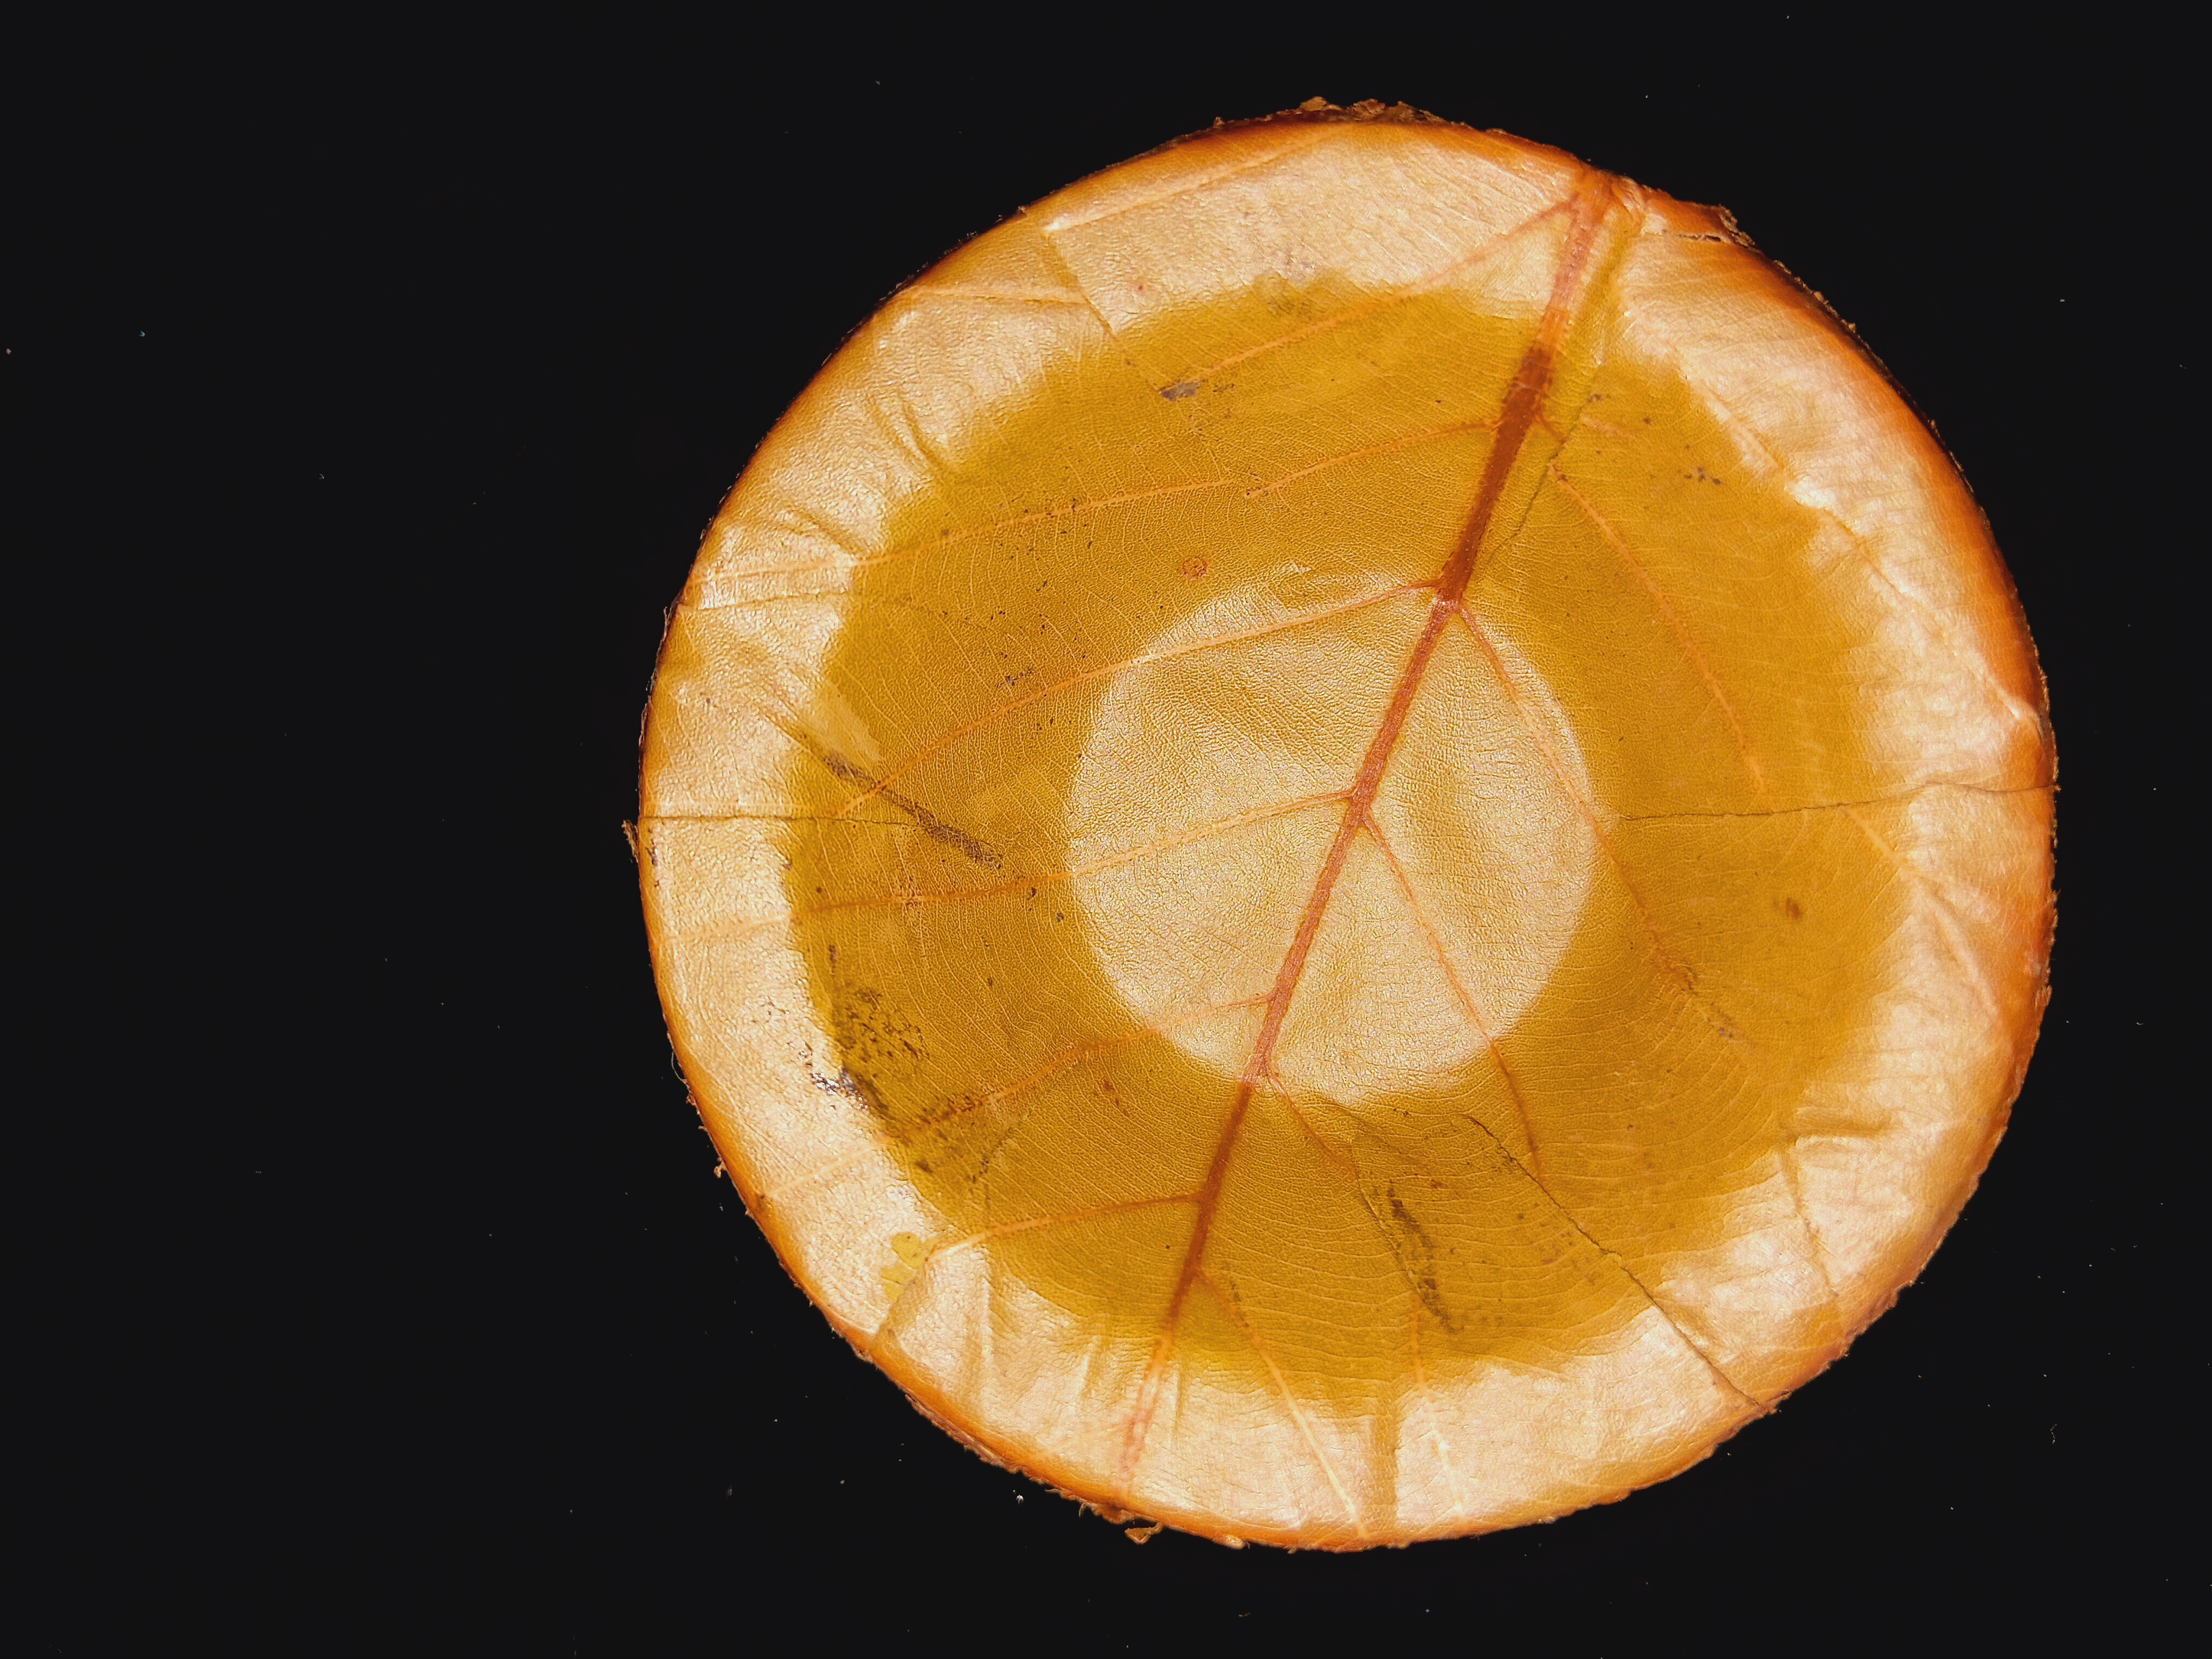
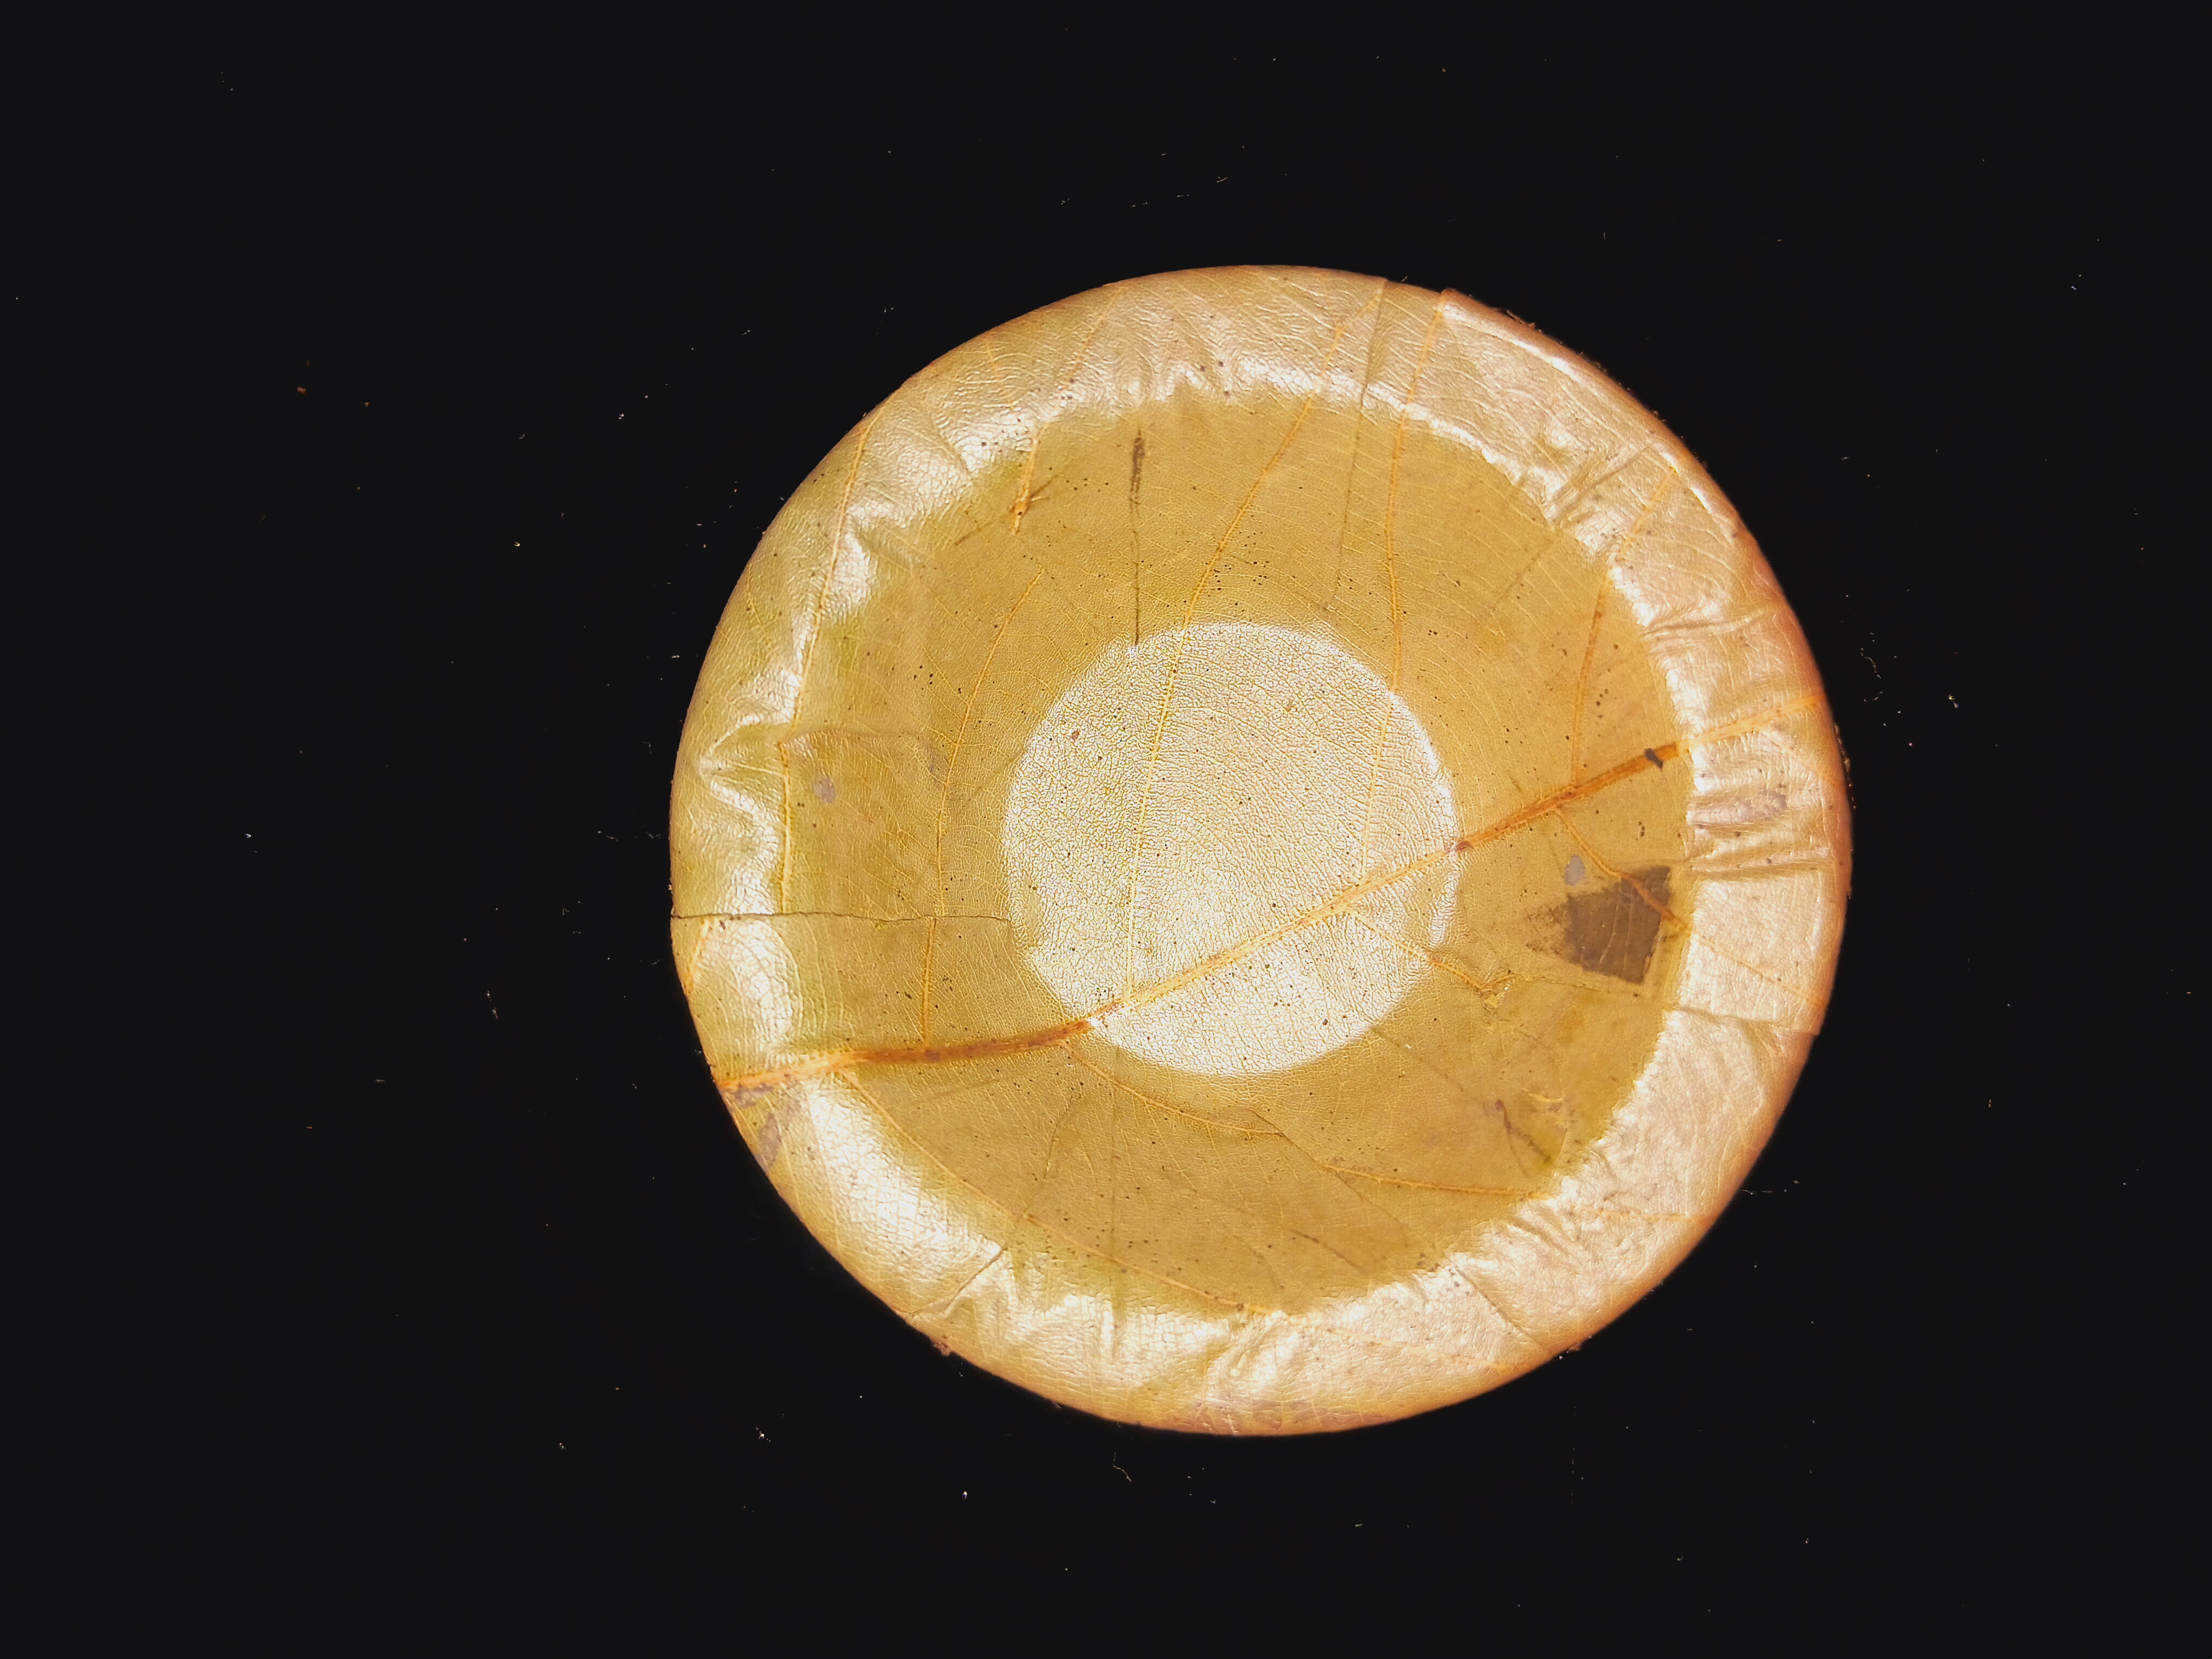
update3

diff --git a/index.html b/index.html
@@ -164,18 +164,6 @@
                     <a href="#contact" class="pcard-cta">Enquire <i class="ri-arrow-right-line"></i></a>
                 </div>
             </div>
-            <div class="pcard" data-reveal-stagger>
-                <div class="pcard-img">
-                    <img src="chplate-17cm-h-40.jpg" alt="Ch Plate 17cm H"></div>
-                <div class="pcard-body">
-                    <h3>Ch Plate</h3>
-                    <div class="pcard-meta">
-                        <span class="pmeta-item"><i class="ri-ruler-line"></i> 17cm <em>(H)</em></span>
-                        <span class="pmeta-item"><i class="ri-stack-line"></i> 40 pcs / pack</span>
-                    </div>
-                    <a href="#contact" class="pcard-cta">Enquire <i class="ri-arrow-right-line"></i></a>
-                </div>
-            </div>
         </div>
 
         <!-- DUNA GROUP -->
@@ -267,6 +255,7 @@
 <section id="story" class="story-section">
     <div class="story-grid">
         <div class="story-media" data-reveal>
+            <h2>Founder &amp; Owner</h2>
             <div class="story-img-wrap">
                 <img src="image.png" alt="Mr. Rishi Giri, Founder">
                 <div class="story-img-overlay"></div>

diff --git a/style.css b/style.css
@@ -440,6 +440,10 @@ a { text-decoration: none; color: inherit; }
     max-width: 1200px; margin: 0 auto;
 }
 .story-media { position: relative; }
+.story-media h2 {
+    color: var(--terra);
+    padding-bottom: 10px;
+}
 .story-img-wrap {
     border-radius: 16px;
     overflow: hidden;